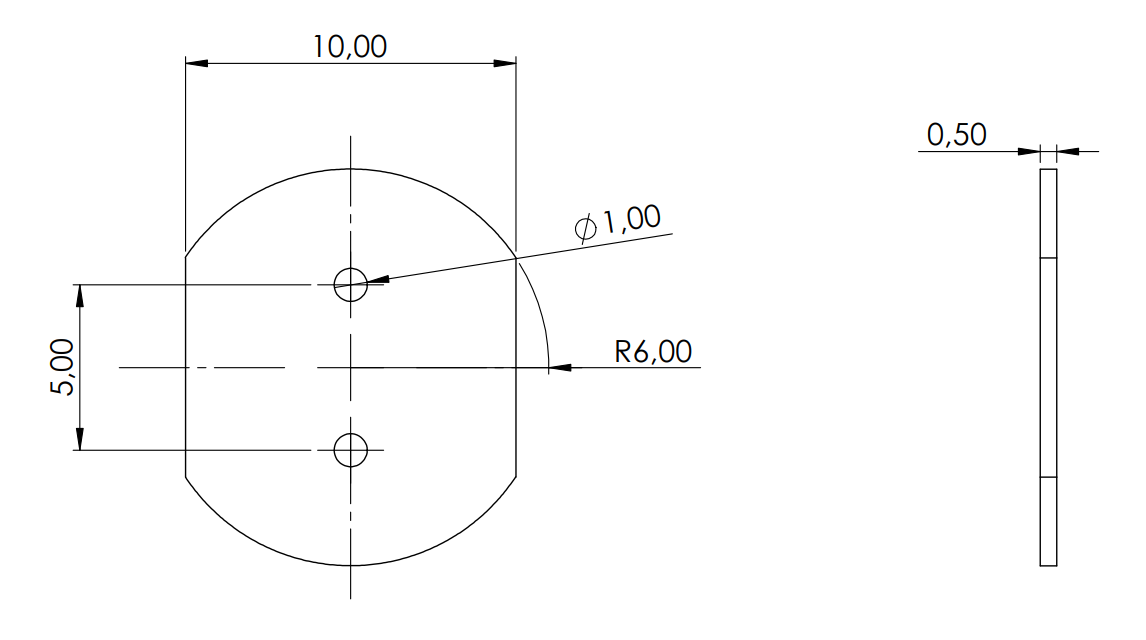
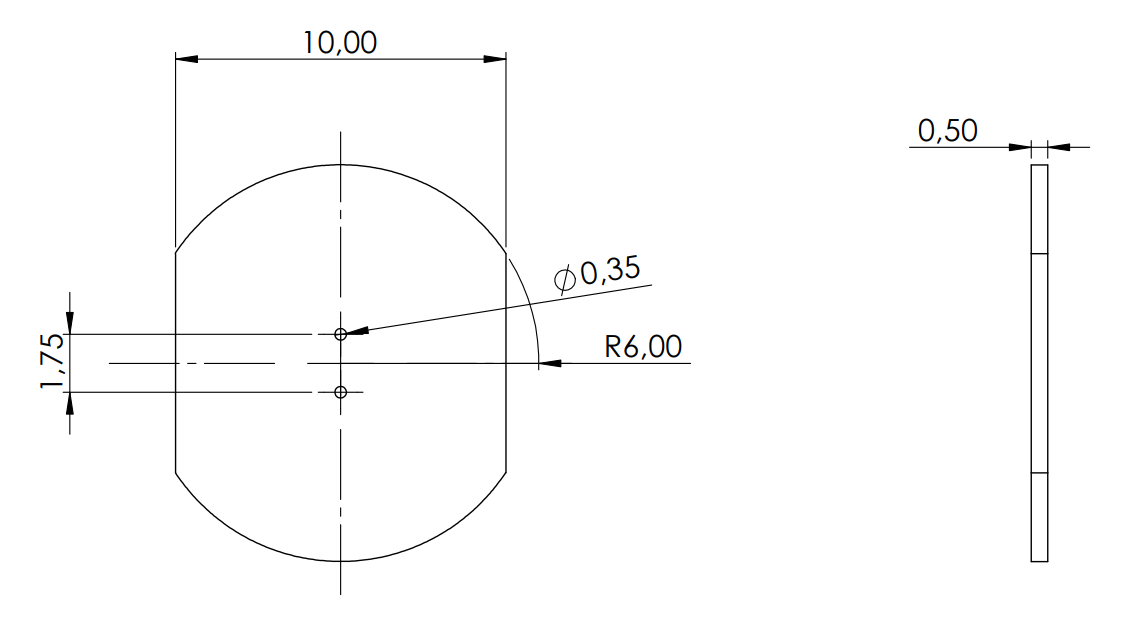
Introduction advancement

diff --git a/OpticalDesign.tex b/OpticalDesign.tex
@@ -162,11 +162,29 @@ Once the X,Y coordinates of the screen's inputs are known, and with the lens's o
 \newpage
 \section{Conjugation matrix with matlab}
 blblalbalblabl
+\section{Limitations of the system}\label{sec:Opti_Limit}
+\subsection{Theoretical ratio for mask}
+As stated in the ESO article on DIMM \cite{DIMM_ESO}, the ratio between the diameter of the holes and their spacing must be 5 :
+\begin{equation}\label{eq:Opti_Ratio}
+    S = D/d = 5
+\end{equation}
+The mask is dimensioned in section \ref{sec:Opti_Couille} and this ratio has been used in equation \ref{eq:Opti_ratio}.
+\subsection{Solar filter}
+If sunspot measurements are to be carried out, the telescope will need to be fitted with a sun filter. This filter will
+absorb and reflect UV radiation from the source. Using a filter will prevent damage to the telescope and the DIMM attached to it.
+The filter used (figure \ref{fig:Opti_Filter}) will be of the same brand as the telescope (MAEDE). It has been specially made for this one.
+\begin{figure}[H]
+    \centering
+    \includegraphics[scale=0.6]{assets/figures/Optical Design/Solar_filter.png}
+    \caption{Solar filter}
+    \label{fig:Opti_Filter}
+\end{figure}
 %====================================================================================================
 %====================================================================================================
 % Mask sizing
 %====================================================================================================
 %====================================================================================================
+\newpage
 \section{Mask sizing}\label{sec:Opti_Couille}
 In order to know the mask size required to sample the image, we first need to know the size of the telescope's exit pupil.
 \subsection{Sizing of exit pupil}
@@ -230,7 +248,7 @@ the diameter of the exit pupil can be calculated:
     D_p = G_t^{Tot} * D = \underline{2.51mm}
 \end{equation}
 \subsection{Practical validation}
-A practical validation has been carried out. However, the object could not be infinite, as the tests were carried out in the school. 
+A practical validation has been carried out. However, the object could not be infinite, as the tests were carried out in the school.
 To determine the diameter of the exit pupil, we had to :
 \begin{enumerate}
     \item Set up an "artificial" star as far away from the telescope as possible.
@@ -239,12 +257,12 @@ To determine the diameter of the exit pupil, we had to :
     \item Place a grid on the back of the telescope and position it so that the image is sharp (pupil position).
     \item Measure pupil diameter.
 \end{enumerate}
-These tests gave a pupil diameter of $3 \pm 1$mm. The result is close to what was expected and, taking into account 
+These tests gave a pupil diameter of $3 \pm 1$mm. The result is close to what was expected and, taking into account
 the uncertainty of the measurement, appears to be fair.
 \newline
 \textbf{\textcolor{red}{Ajouter image}}
 \subsection{Mask sizing}
-If the ratio between the diameter of the holes and the distance between them is respected, each hole should have a diameter of :
+If the ratio between the diameter of the holes and the distance between them is respected (\ref{eq:Opti_Ratio}), each hole should have a diameter of :
 \begin{equation}\label{eq:Opti_ratio}
     D_{Holes} = \frac{D_p}{6} = \underline{0.42mm}
 \end{equation}
@@ -253,7 +271,6 @@ between the centers of these 2 holes will be :
 \begin{equation}
     d = 5*D_{Holes} = \underline{1.75mm}
 \end{equation}
-\textbf{\textcolor{red}{Ajouter image}}
 %====================================================================================================
 %====================================================================================================
 % Camera specifications
@@ -269,18 +286,12 @@ several elements will need to be calculated :
     \item The size the image will occupy on the sensor
 \end{itemize}
 \bigbreak
-To begin with, the mask must be positioned at the telescope entrance. To do this, the relationship between
-the holes and their spacing is used (:::). A virtual mask is placed over the telescope entrance,
-with a 20mm margin taken on the sides (10mm each). Using these elements, the diameter of the holes on the
-telescope can be determined by the equation \ref{eq:DMT} with $D_{MT}$ = diameter of a hole on the telescope entrance,
-$D$ = diameter of the telescope, $margin$ = 20mm, $ratio$ = ratio between the holes and their spacing.
+To determine the size of the screen and the pixels required for the image, the previously 
+calculated magnification and hole size should be used. 
+The aim is to transfer the mask to the front of the telescope, so as to know the "virtual" size of the mask as 
+seen through the telescope.
 \begin{equation}\label{eq:DMT}
-    D_{MT} = \frac{(D-margin)}{(ratio + 1)} = \frac{(305-20)}{5+1} = 47.5 mm
-\end{equation}
-Now we need to know the transverse magnification ($G_t$) between the holes in the mask and the virtual holes in the telescope.
-This magnification will later be used to determine the available FOV.
-\begin{equation}
-    G_t = \frac{D_{holes}}{D_{MT}} = \frac{1}{47.5} = 0.0211
+    D_{MT} = \frac{D_{holes}}{G_t} = \frac{0.35}{0.0082} = 42.7mm
 \end{equation}
 \textbf{\textcolor{red}{Truc du sigma}}
 \newline
@@ -469,23 +480,7 @@ The prism chosen has the following characteristics:
 %====================================================================================================
 %====================================================================================================
 \newpage
-\section{Limitations of the system}\label{sec:Opti_Limit}
-\subsection{Theoretical ratio for mask}
-As stated in the ESO article on DIMM \cite{DIMM_ESO}, the ratio between the diameter of the holes and their spacing must be 5 :
-\begin{equation}
-    S = D/d = 5
-\end{equation}
-The mask is dimensioned in section \ref{sec:Opti_Couille} and this ratio has been used in equation \ref{eq:Opti_ratio}.
-\subsection{Solar filter}
-If sunspot measurements are to be carried out, the telescope will need to be fitted with a sun filter. This filter will
-absorb and reflect UV radiation from the source. Using a filter will prevent damage to the telescope and the DIMM attached to it.
-The filter used (figure \ref{fig:Opti_Filter}) will be of the same brand as the telescope (MAEDE). It has been specially made for this one.
-\begin{figure}[H]
-    \centering
-    \includegraphics[scale=0.4]{assets/figures/Optical Design/Solar_filter.png}
-    \caption{Solar filter}
-    \label{fig:Opti_Filter}
-\end{figure}
+
 \section{Design method}
 The overall dimensioning of the optical system can be realized as a kind of loop, where each
 parameter is linked to another component of the system. As shown in Figure \ref{fig:Opti_DiagrammChoices} :

diff --git a/introduction.tex b/introduction.tex
@@ -7,21 +7,31 @@ This chapter introduces the context and generalities relative to the work.
 % Context
 %====================================================================================================
 \section{Context}
-The Institute for Solar Reasearch (\Gls{IRSOL}) can be found in Locarno Switzerland. At the time of writing and according to the observatory, their reasearch activities focus on :
+This bachelor's thesis was carried out to support the research of the institute \Gls{IRSOL}. \newline
+<<\Gls{IRSOL} is a research institute dependent on a foundation of the same name and affiliated to Università della Svizzera italiana.>>$^1$
+The institute is based above Locarno in Ticino. \newline
+Their research is mainly based on the measurement and characterization of the sun, and specializes in :
 <<
 \begin{enumerate}
     \item observational spectropolarimetry and instrument development,
     \item theoretical modeling of the generation and transfer of polarized radiation,
     \item numerical simulation of the solar atmosphere and numerical radiative transfer.
-\end{enumerate}>>\footnote{\cite{IRSOL_research} IRSOL, 2023. RESEARCH ACTIVITY, Research Activity at IRSOL. [Online]. [Accessed on 24.03.2023]. Available at: https://www.irsol.usi.ch/research/research-activity/}
+\end{enumerate}>>\footnote{\cite{IRSOL_research} IRSOL, 2023. RESEARCH ACTIVITY, Research Activity at IRSOL. [Online]. [Accessed on 21.07.2023]. Available at: https://www.irsol.usi.ch/research/research-activity/}
+
+The problem is that the institute is looking to expand its equipment in order to develop their research.
+However, it is necessary to know the limitations of the measuring instruments, as well as the quality of the observation site.
+Their first development objective would be to integrate an adaptive optics system \acrfull{ao}.
+\newline
 In odrer to asses the usefullness of adaptative optics two Bachelor thesis are conducted.
 \begin{enumerate}
-    \item "Analyseur de la turbulence optique pour le télescope solaire IRSOL" (Optical turbulence analyser for \Gls{IRSOL}'s solar telescope)
-    \item "Le mien" (this thesis)
+    \item (Celui de DOM)
+    \item This thesis : "Analyseur de la turbulence optique pour le télescope solaire IRSOL" (Optical turbulence analyser for \Gls{IRSOL}'s solar telescope)
 \end{enumerate}
-The 1\textsuperscript{st} one aims to analyse optical turbulence on site. The 2\textsuperscript{nd} one is meant to measure the optical imperfections of the telescope itsef and maybe of other optical equipment.
+The 1\textsuperscript{st} one is meant to measure the optical imperfections of the telescope itself and maybe of other optical equipment.
+The 2\textsuperscript{nd} one aims to analyse optical turbulence on site.
 
-Once both studies are concluded, the laboratory will be able to determine whether the use of \acrfull{ao} makes sense or not. Should teh atmospheric turbulencec have a greater impact on the image than the telescope's imperfections, A nes study on the implementation of \acrshort{ao} will be conducted. This study is out of the scope of either thesis.
+Once these two projects are completed, IRSOL will be able to determine whether the acquisition of an \acrfull{ao} makes sense
+and they will also be able to quantify the limiting element to their research (the observation site or the telescope).
 
 
 
@@ -29,7 +39,23 @@ Once both studies are concluded, the laboratory will be able to determine whethe
 % Issue at hand
 %====================================================================================================
 \section{Issue at hand}
+In a discussion with the institute, it was said: "Seeing evolves over the course of the day.
+When the sun rises, the ground warms up and the heat rises. This is when seeing is at its worst.
+But when the sun goes down, there's a moment when seeing is almost non-existent because the air currents freeze before going down again."
+\bigbreak
+The issue at hand is that the quality of the observation site is known but cannot be quantified.
+The aim of this study is to quantify the quality of their observation site.
+The instrument used will be the DIMM \textbf{\textcolor{red}{RAJOUTER GLOSSAIRE DIMM}} (Differential image motion monitor).
 
+A DIMM \textbf{\textcolor{red}{RAJOUTER GLOSSAIRE DIMM}} works as follows (simplified version) :
+\begin{enumerate}
+    \item Capture an image masked by two small holes.
+    \item Tracking the movement of these images.
+    \item Measurement of the standard deviation of this movement.
+    \item Conversion of previous result into turbulent layer thickness.
+\end{enumerate}
+The aim will be to play with the exposure time to determine the location of the image center, but also to freeze the turbulence.
+\bigbreak
 The issue at hand is that the the teslescope has some unkown optical imperfecitons. This study aims to measure them.
 
 The short methodology explanation is as follows:
